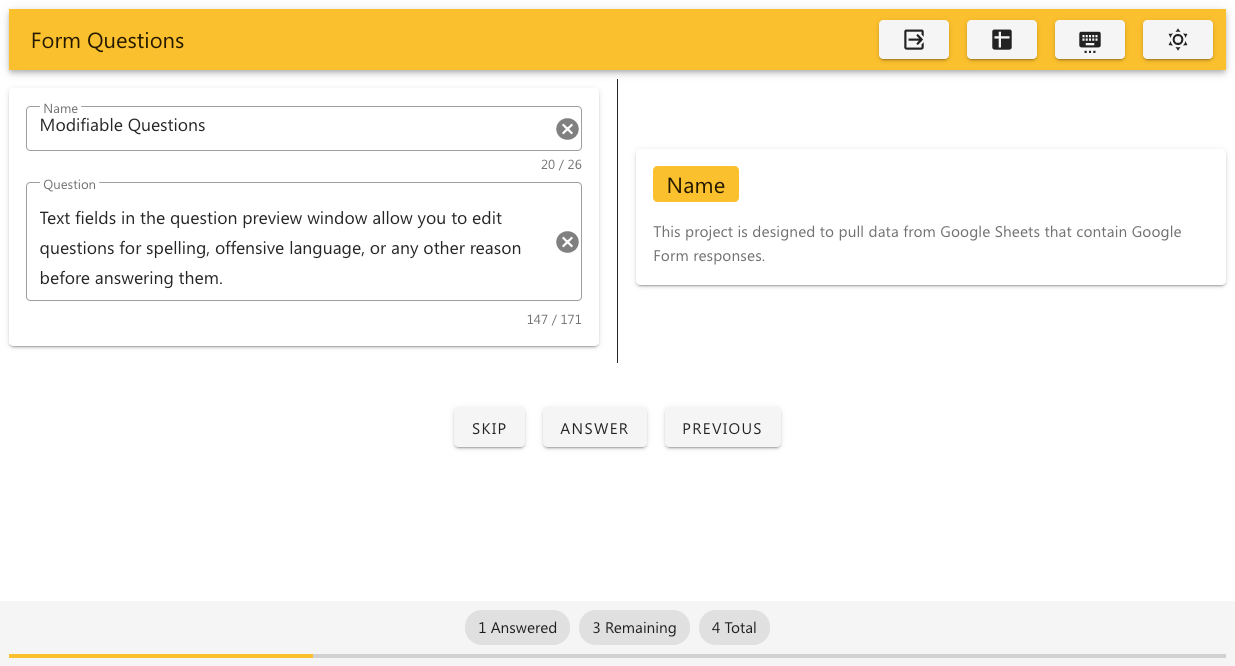
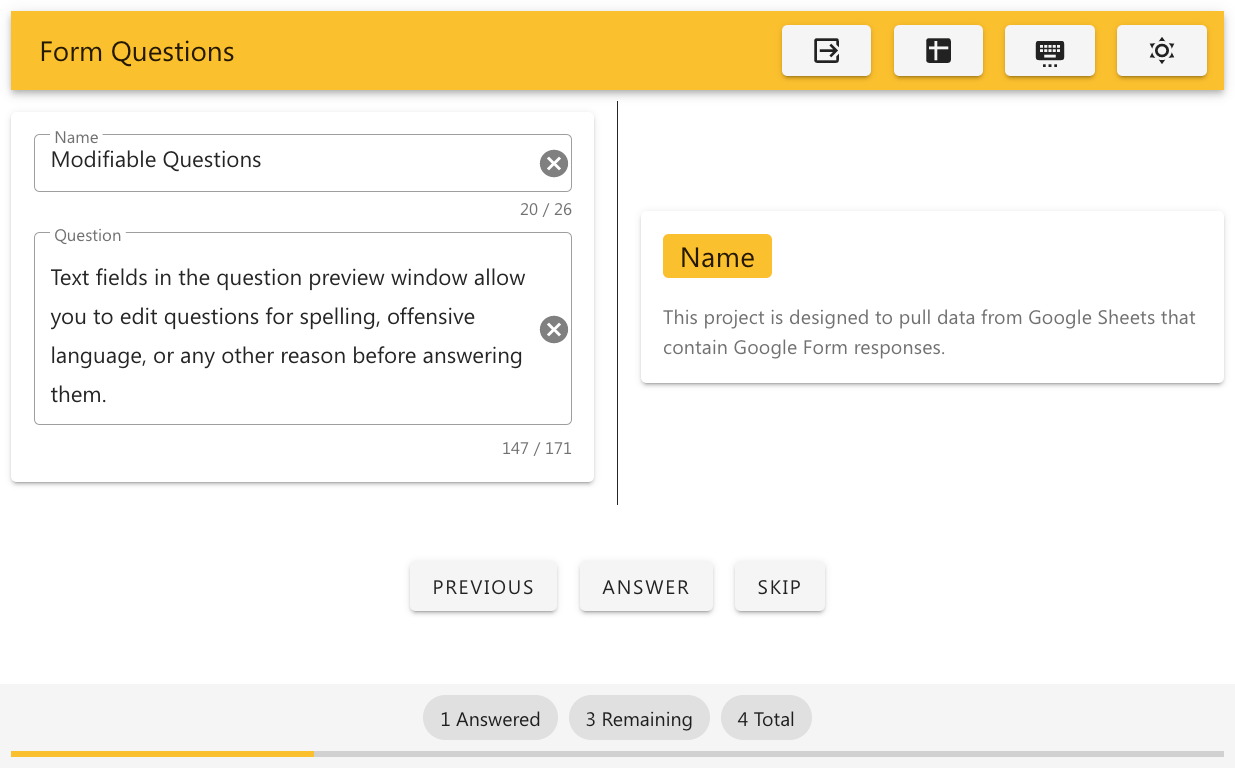
Switched button order

diff --git a/src/App.svelte b/src/App.svelte
@@ -358,10 +358,12 @@
             </Col>
         </Row>
         <div class="d-flex justify-center ma-10">
-            {#if questions.length > nextQuestion + 1}
-                <Button class="mr-2" on:click={() => skip()}>Skip</Button>
+            {#if currentQuestion > 0}
+                <Button class="mr-2" on:click={() => previous()}>
+                    Previous
+                </Button>
             {:else}
-                <Button class="mr-2" disabled>Skip</Button>
+                <Button class="mr-2" disabled>Previous</Button>
             {/if}
             {#if questions.length > nextQuestion}
                 <Button class="ml-2 mr-2" on:click={() => answer()}>
@@ -370,12 +372,10 @@
             {:else}
                 <Button class="ml-2 mr-2" disabled>Answer</Button>
             {/if}
-            {#if currentQuestion > 0}
-                <Button class="ml-2" on:click={() => previous()}>
-                    Previous
-                </Button>
+            {#if questions.length > nextQuestion + 1}
+                <Button class="ml-2" on:click={() => skip()}>Skip</Button>
             {:else}
-                <Button class="ml-2" disabled>Previous</Button>
+                <Button class="ml-2" disabled>Skip</Button>
             {/if}
         </div>
         <Footer class="justify-center pa-2" absolute>
